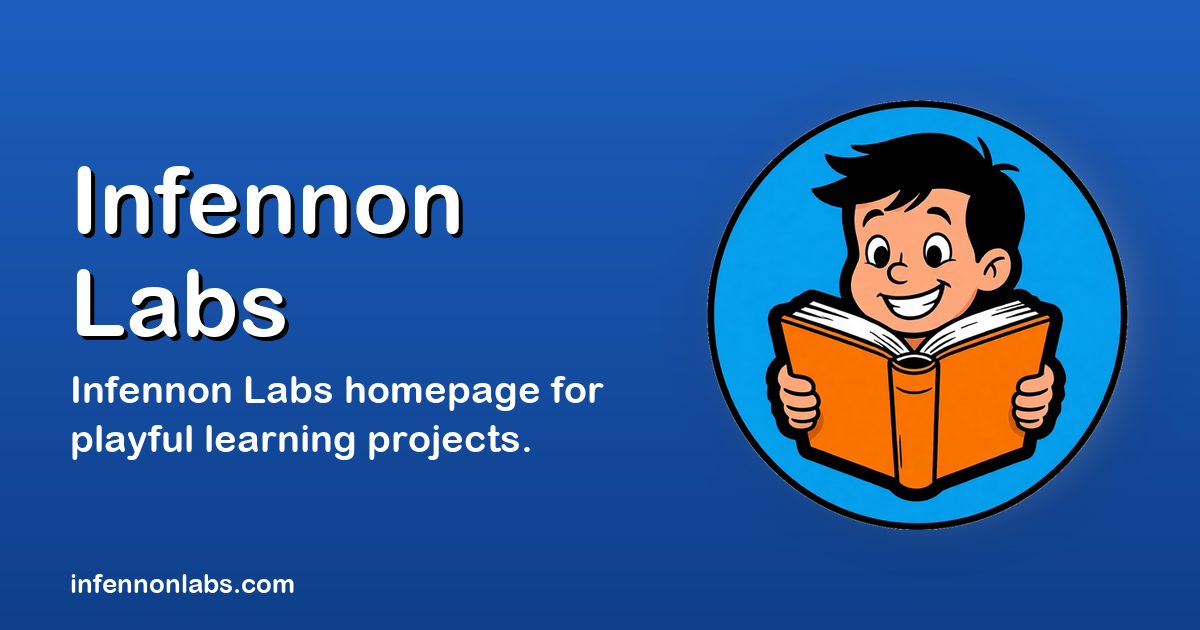
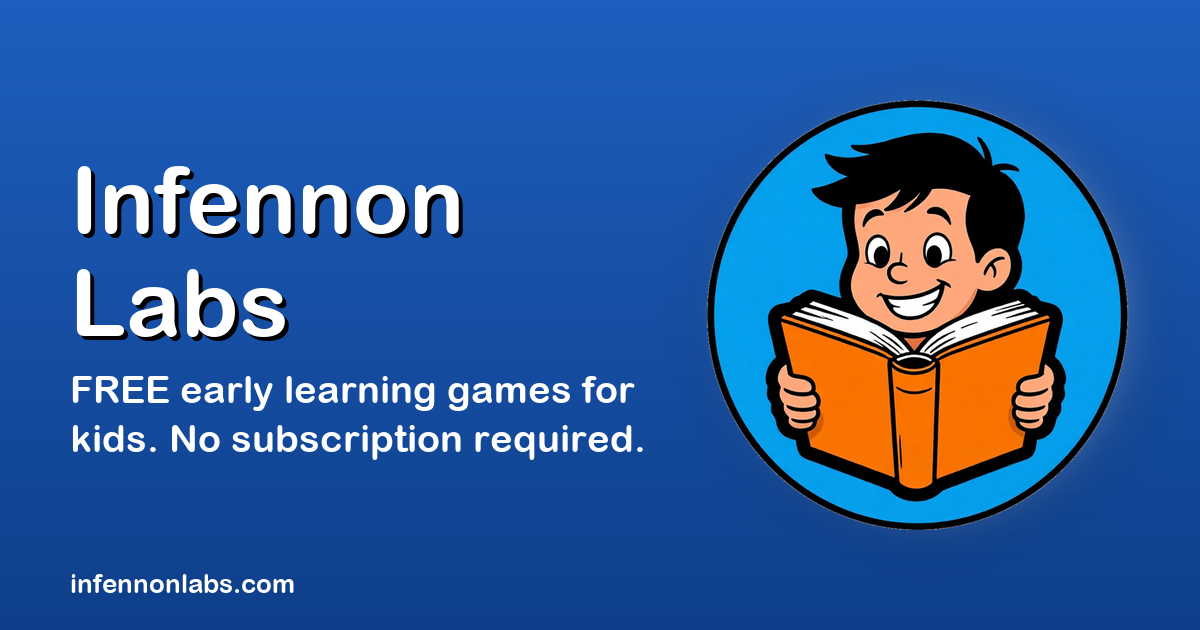
Home: free/no-subscription title and description, stacked share card, square thumbnail image
Robots tag allows large image previews; a script wraps Flutter's font-measurement text
in a data-nosnippet span; JSON-LD lists the wide and square images; alternateName removed.

Changed region(s): [[0.0617, 0.573, 0.5242, 0.7238]]

diff --git a/web/index.html b/web/index.html
@@ -18,11 +18,12 @@
 
   <meta charset="UTF-8">
   <meta content="IE=Edge" http-equiv="X-UA-Compatible">
-  <meta name="description" content="InfennonLabs makes free early learning games for ages 3-12, from PreK through 5th grade. Alphabet, counting, math, reading and more. No subscription.">
+  <meta name="description" content="Free early learning games for kids ages 3-12, PreK through 5th grade. No subscription required. Alphabet, counting, math, reading, science and more.">
+  <meta name="robots" content="max-image-preview:large, max-snippet:-1">
   <meta name="google-adsense-account" content="ca-pub-8017542409324420">
   <meta name="theme-color" content="#0B5E8B">
   <meta property="og:title" content="InfennonLabs: Free Early Learning Games for Kids">
-  <meta property="og:description" content="InfennonLabs makes free early learning games for ages 3-12, from PreK through 5th grade. Alphabet, counting, math, reading and more. No subscription.">
+  <meta property="og:description" content="Free early learning games for kids ages 3-12, PreK through 5th grade. No subscription required. Alphabet, counting, math, reading, science and more.">
   <meta property="og:type" content="website">
   <meta property="og:image:width" content="1200">
   <meta property="og:image:height" content="630">
@@ -38,12 +39,34 @@
 
   <!-- Favicon -->
   <link rel="icon" type="image/png" sizes="32x32" href="favicon.png"/>
+  <script>
+    // Keep Flutter's internal font-measurement text out of search-result snippets.
+    // Google only honors data-nosnippet on span/div/section, so wrap the <p> Flutter adds.
+    (function () {
+      var TEXT = 'flutter typography measurement';
+      function wrap(node) {
+        if (node.nodeType !== 1 || node.tagName !== 'P' || node.textContent !== TEXT) return;
+        var parent = node.parentNode;
+        if (!parent || (parent.hasAttribute && parent.hasAttribute('data-nosnippet'))) return;
+        var span = document.createElement('span');
+        span.setAttribute('data-nosnippet', '');
+        span.style.display = 'contents';
+        parent.insertBefore(span, node);
+        span.appendChild(node);
+      }
+      var observer = new MutationObserver(function (records) {
+        records.forEach(function (record) { record.addedNodes.forEach(wrap); });
+      });
+      observer.observe(document.documentElement, { childList: true, subtree: true });
+      setTimeout(function () { observer.disconnect(); }, 60000);
+    })();
+  </script>
   <script
     async
     src="https://pagead2.googlesyndication.com/pagead/js/adsbygoogle.js?client=ca-pub-8017542409324420"
     crossorigin="anonymous"></script>
 
-  <title>InfennonLabs: Free Early Learning Games for Kids (PreK-5th)</title>
+  <title>Free Learning Games for Kids, No Subscription Required</title>
   <link rel="manifest" href="manifest.json">
 </head>
 <body>

diff --git a/tool/brand/make_square.py b/tool/brand/make_square.py
@@ -1,0 +1,27 @@
+#!/usr/bin/env python3
+"""Render web/share-square.jpg (1200x1200) for search-result thumbnails.
+
+Google crops thumbnails to a square, so this is a tight crop of the boy peeking over the book
+from web/icons/infennon-source.png: everything inside the blue circle's black ring is kept,
+the circle frame is dropped, and the corners are filled with the circle's own blue.
+Run: python3 tool/brand/make_square.py
+"""
+import statistics
+from pathlib import Path
+
+from PIL import Image, ImageDraw
+
+ROOT = Path(__file__).resolve().parents[2]
+SRC = ROOT / "web/icons/infennon-source.png"
+OUT = ROOT / "web/share-square.jpg"
+
+src = Image.open(SRC).convert("RGB")
+blue = tuple(int(statistics.median(src.getpixel(p)[i] for p in [(140, 500), (150, 420), (160, 600), (880, 500)])) for i in range(3))
+cx, cy, r = 512, 500, 425   # interior of the circle, just inside the black ring
+mask = Image.new("L", src.size, 0)
+ImageDraw.Draw(mask).ellipse((cx - r, cy - r, cx + r, cy + r), fill=255)
+canvas = Image.new("RGB", src.size, blue)
+canvas.paste(src, (0, 0), mask)
+square = canvas.crop((100, 92, 924, 916)).resize((1200, 1200), Image.LANCZOS)   # keeps hair top and book bottom
+square.save(OUT, "JPEG", quality=88, optimize=True)
+print(f"wrote {OUT} {square.size}")

diff --git a/tool/gen_seo_files.py b/tool/gen_seo_files.py
@@ -92,15 +92,14 @@ def site_jsonld() -> str:
                 "@type": "Organization",
                 "@id": f"{SITE}/#organization",
                 "name": "InfennonLabs",
-                "alternateName": "Infennon Labs",
                 "url": f"{SITE}/",
                 "logo": f"{SITE}/home/icons/Icon-512.png",
+                "image": [f"{SITE}/home/share.jpg", f"{SITE}/home/share-square.jpg"],
             },
             {
                 "@type": "WebSite",
                 "@id": f"{SITE}/#website",
                 "name": "InfennonLabs",
-                "alternateName": "Infennon Labs",
                 "url": f"{SITE}/",
                 "inLanguage": "en",
                 "publisher": {"@id": f"{SITE}/#organization"},
